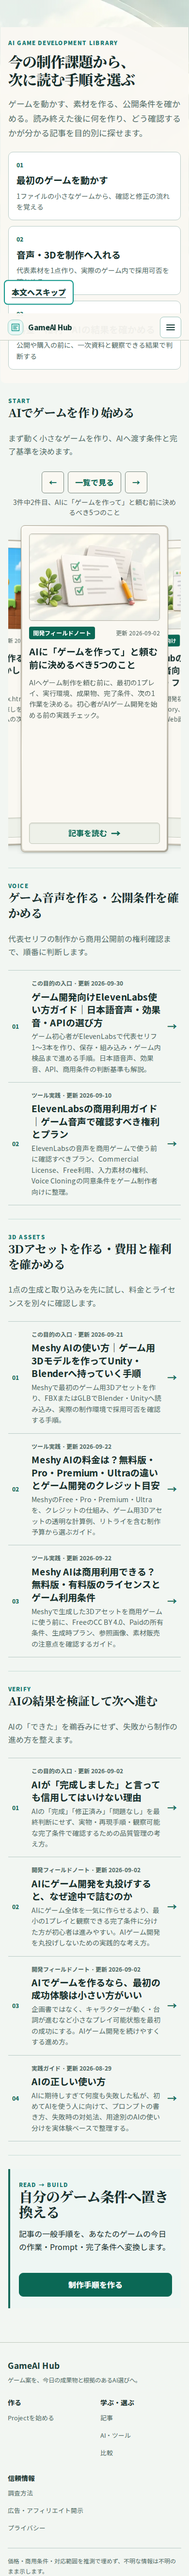
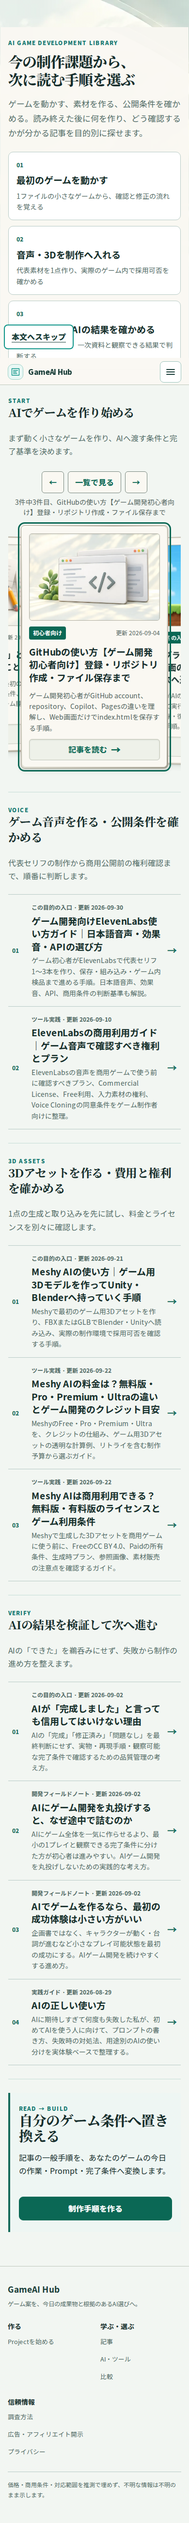
fix: stabilize creation deck interactions

diff --git a/components/CreationDeck.tsx b/components/CreationDeck.tsx
@@ -1,7 +1,7 @@
 "use client";
 
 import Link from "next/link";
-import { useEffect, useLayoutEffect, useRef, useState, type MouseEvent, type PointerEvent as ReactPointerEvent } from "react";
+import { useCallback, useEffect, useLayoutEffect, useRef, useState, type KeyboardEvent, type MouseEvent, type PointerEvent as ReactPointerEvent } from "react";
 
 export type CreationDeckItem = {
   href: string;
@@ -18,26 +18,48 @@ export function CreationDeck({ items }: { items: CreationDeckItem[] }) {
   const [available, setAvailable] = useState(false);
   const [deckHeight, setDeckHeight] = useState<number>();
   const stage = useRef<HTMLOListElement>(null);
-  const gesture = useRef<{ x: number; y: number; dragging: boolean } | null>(null);
+  const gesture = useRef<{ pointerId: number; x: number; y: number; dragging: boolean } | null>(null);
   const suppressClick = useRef(false);
+  const suppressTimer = useRef<ReturnType<typeof setTimeout>>(undefined);
+  const preferredMode = useRef<"list" | "deck">("list");
 
   useEffect(() => {
-    if (sessionStorage.getItem("gameai-creation-deck-mode") === "deck") queueMicrotask(() => setMode("deck"));
+    try {
+      preferredMode.current = sessionStorage.getItem("gameai-creation-deck-mode") === "deck" ? "deck" : "list";
+    } catch {
+      preferredMode.current = "list";
+    }
   }, []);
 
   useLayoutEffect(() => {
     const root = stage.current;
     if (!root) return;
     const measure = () => {
-      const height = Math.max(...Array.from(root.children, (child) => (child as HTMLElement).scrollHeight), 0) + 16;
-      if (height > 16) setDeckHeight(height);
+      // Deck items are top-positioned but never bottom-constrained, so this is
+      // their intrinsic, width-correct height rather than the stage min-height.
+      const height = Math.ceil(Math.max(...Array.from(root.children, (child) => child.getBoundingClientRect().height), 0)) + 16;
+      if (height > 16) setDeckHeight((current) => current === height ? current : height);
     };
     measure();
     const observer = typeof ResizeObserver === "undefined" ? null : new ResizeObserver(measure);
     Array.from(root.children).forEach((child) => observer?.observe(child));
-    if (document.fonts) void document.fonts.ready.then(measure);
-    return () => observer?.disconnect();
+    const fonts = document.fonts;
+    const onFontsSettled = () => measure();
+    fonts?.addEventListener("loadingdone", onFontsSettled);
+    fonts?.addEventListener("loadingerror", onFontsSettled);
+    if (fonts) void fonts.ready.then(measure);
+    window.addEventListener("resize", measure);
+    return () => {
+      observer?.disconnect();
+      fonts?.removeEventListener("loadingdone", onFontsSettled);
+      fonts?.removeEventListener("loadingerror", onFontsSettled);
+      window.removeEventListener("resize", measure);
+    };
   }, [items]);
+
+  const cancelGesture = useCallback(() => {
+    gesture.current = null;
+  }, []);
 
   useEffect(() => {
     if (typeof window.matchMedia !== "function") return;
@@ -47,30 +69,66 @@ export function CreationDeck({ items }: { items: CreationDeckItem[] }) {
     const update = () => {
       const next = items.length > 1 && !narrow.matches && !reduced.matches && !forced.matches;
       setAvailable(next);
+      cancelGesture();
       if (!next) {
         if (stage.current?.parentElement?.querySelector(":focus")?.closest(".creation-deck-controls")) {
           stage.current?.querySelectorAll<HTMLAnchorElement>("a")[active]?.focus({ preventScroll: true });
         }
         setMode("list");
+      } else if (preferredMode.current === "deck") {
+        setMode("deck");
       }
     };
     update();
     [narrow, reduced, forced].forEach((query) => query.addEventListener("change", update));
     return () => [narrow, reduced, forced].forEach((query) => query.removeEventListener("change", update));
-  }, [active, items.length]);
+  }, [active, cancelGesture, items.length]);
+
+  useEffect(() => {
+    const onVisibility = () => {
+      if (document.visibilityState !== "visible") cancelGesture();
+    };
+    window.addEventListener("resize", cancelGesture);
+    document.addEventListener("visibilitychange", onVisibility);
+    return () => {
+      window.removeEventListener("resize", cancelGesture);
+      document.removeEventListener("visibilitychange", onVisibility);
+      if (suppressTimer.current) clearTimeout(suppressTimer.current);
+    };
+  }, [cancelGesture]);
 
   const move = (delta: number) => setActive((index) => (index + delta + items.length) % items.length);
   const changeMode = (next: "list" | "deck") => {
     setMode(next);
-    sessionStorage.setItem("gameai-creation-deck-mode", next);
+    preferredMode.current = next;
+    try {
+      sessionStorage.setItem("gameai-creation-deck-mode", next);
+    } catch {
+      // The in-memory preference remains usable when storage is unavailable.
+    }
+  };
+  const revealForFocus = (index: number) => {
+    const root = stage.current;
+    if (mode !== "deck" || !root) return;
+    root.dataset.focusReveal = "true";
+    setActive(index);
+    requestAnimationFrame(() => requestAnimationFrame(() => delete root.dataset.focusReveal));
+  };
+  const onControlsKeyDown = (event: KeyboardEvent<HTMLDivElement>) => {
+    if (mode !== "deck" || (event.key !== "ArrowLeft" && event.key !== "ArrowRight")) return;
+    event.preventDefault();
+    move(event.key === "ArrowLeft" ? -1 : 1);
   };
   const onPointerDown = (event: ReactPointerEvent) => {
-    if (mode !== "deck" || !event.isPrimary) return;
-    gesture.current = { x: event.clientX, y: event.clientY, dragging: false };
+    if (mode !== "deck" || !event.isPrimary || gesture.current) {
+      cancelGesture();
+      return;
+    }
+    gesture.current = { pointerId: event.pointerId, x: event.clientX, y: event.clientY, dragging: false };
   };
   const onPointerMove = (event: ReactPointerEvent) => {
     const start = gesture.current;
-    if (!start || !event.isPrimary) return;
+    if (!start || start.pointerId !== event.pointerId || !event.isPrimary) return;
     const dx = event.clientX - start.x;
     const dy = event.clientY - start.y;
     if (!start.dragging && Math.abs(dx) >= 10 && Math.abs(dx) > Math.abs(dy) * 1.3) {
@@ -80,11 +138,14 @@ export function CreationDeck({ items }: { items: CreationDeckItem[] }) {
   };
   const onPointerEnd = (event: ReactPointerEvent) => {
     const start = gesture.current;
-    gesture.current = null;
-    if (!start?.dragging) return;
-    const threshold = Math.min(64, (stage.current?.clientWidth ?? 320) * 0.18);
+    cancelGesture();
+    if (!start?.dragging || start.pointerId !== event.pointerId) return;
+    const cardWidth = stage.current?.children[active]?.getBoundingClientRect().width ?? 320;
+    const threshold = Math.min(64, cardWidth * 0.18);
     const dx = event.clientX - start.x;
     suppressClick.current = true;
+    if (suppressTimer.current) clearTimeout(suppressTimer.current);
+    suppressTimer.current = setTimeout(() => { suppressClick.current = false; }, 0);
     if (Math.abs(dx) >= threshold) move(dx < 0 ? 1 : -1);
   };
   const onClickCapture = (event: MouseEvent) => {
@@ -95,7 +156,7 @@ export function CreationDeck({ items }: { items: CreationDeckItem[] }) {
   };
 
   return <div className="creation-deck" data-mode={mode}>
-    {available && <div className="creation-deck-controls">
+    {available && <div className="creation-deck-controls" onKeyDown={onControlsKeyDown}>
       {mode === "deck" && <button type="button" onClick={() => move(-1)} aria-label="前の記事">←</button>}
       <button type="button" aria-pressed={mode === "deck"} onClick={() => changeMode(mode === "list" ? "deck" : "list")}>
         {mode === "list" ? "円環で見る" : "一覧で見る"}
@@ -103,11 +164,11 @@ export function CreationDeck({ items }: { items: CreationDeckItem[] }) {
       {mode === "deck" && <button type="button" onClick={() => move(1)} aria-label="次の記事">→</button>}
       {mode === "deck" && <span className="creation-deck-count" aria-live="polite">{items.length}件中{active + 1}件目、{items[active]?.title}</span>}
     </div>}
-    <ol ref={stage} className="article-cluster-list" style={mode === "deck" && deckHeight ? { minHeight: deckHeight } : undefined} onClickCapture={onClickCapture} onPointerDown={onPointerDown} onPointerMove={onPointerMove} onPointerUp={onPointerEnd} onPointerCancel={() => { gesture.current = null; }}>
+    <ol ref={stage} className="article-cluster-list" style={mode === "deck" && deckHeight ? { minHeight: deckHeight } : undefined} onClickCapture={onClickCapture} onPointerDown={onPointerDown} onPointerMove={onPointerMove} onPointerUp={onPointerEnd} onPointerCancel={cancelGesture} onLostPointerCapture={cancelGesture}>
       {items.map((item, index) => {
         const distance = ((index - active + items.length + Math.floor(items.length / 2)) % items.length) - Math.floor(items.length / 2);
         return <li key={item.href} className="v2-start-card-item" data-distance={mode === "deck" ? Math.max(-2, Math.min(2, distance)) : undefined}>
-          <Link className="v2-start-card" href={item.href} onFocus={() => mode === "deck" && setActive(index)}>
+          <Link className="v2-start-card" href={item.href} onFocus={() => revealForFocus(index)}>
             <span className="v2-start-card-face">
               <span className="v2-start-card-image" aria-hidden="true">
                 {/* Approved source bytes are intentionally served without re-encoding. */}

diff --git a/e2e/issue-157-stage-b.spec.ts b/e2e/issue-157-stage-b.spec.ts
@@ -1,4 +1,4 @@
-import { expect, test } from "@playwright/test";
+import { expect, test } from "./fixtures";
 import { mkdir } from "node:fs/promises";
 import path from "node:path";
 
@@ -32,8 +32,52 @@ test("Creation Deck is explicit, preserves links, and retains a list fallback", 
   await expect(deck).toHaveAttribute("data-mode", "list");
   await page.getByRole("button", { name: "円環で見る" }).click();
   await expect(deck).toHaveAttribute("data-mode", "deck");
+  const stage = deck.locator("ol");
+  const followingSection = page.locator("#start").locator("xpath=following-sibling::section[1]");
+  const sampleGeometry = async () => page.evaluate(() => new Promise<{ stage: number; next: number }[]>((resolve) => {
+    const samples: { stage: number; next: number }[] = [];
+    const collect = () => {
+      const stageElement = document.querySelector("#start .creation-deck ol");
+      const next = document.querySelector("#start")?.nextElementSibling;
+      samples.push({ stage: stageElement?.getBoundingClientRect().height ?? 0, next: next?.getBoundingClientRect().top ?? 0 });
+      if (samples.length === 8) resolve(samples);
+      else setTimeout(collect, 100);
+    };
+    collect();
+  }));
+  const assertSettled = (samples: { stage: number; next: number }[]) => {
+    const tail = samples.slice(-4);
+    expect(Math.max(...tail.map(({ stage: height }) => height)) - Math.min(...tail.map(({ stage: height }) => height))).toBeLessThanOrEqual(1);
+    expect(Math.max(...tail.map(({ next }) => next)) - Math.min(...tail.map(({ next }) => next))).toBeLessThanOrEqual(1);
+  };
+  assertSettled(await sampleGeometry());
+  await expect(stage).toBeVisible();
+  await expect(followingSection).toBeVisible();
   await page.getByRole("button", { name: "次の記事" }).click();
   await expect(page.locator(".creation-deck-count")).toContainText("3件中2件目");
+  await page.getByRole("button", { name: "次の記事" }).press("ArrowLeft");
+  await expect(page.locator(".creation-deck-count")).toContainText("3件中1件目");
+  await links.nth(2).focus();
+  await expect(page.locator(".creation-deck-count")).toContainText("3件中3件目");
+  await expect(links.nth(2)).toBeFocused();
+  await page.setViewportSize({ width: 600, height: 844 });
+  assertSettled(await sampleGeometry());
+  await page.evaluate(() => { document.documentElement.style.fontSize = "150%"; });
+  assertSettled(await sampleGeometry());
+  await page.evaluate(() => {
+    document.documentElement.style.letterSpacing = ".12em";
+    document.documentElement.style.wordSpacing = ".16em";
+  });
+  assertSettled(await sampleGeometry());
+  await page.evaluate(async () => { await document.fonts.ready; });
+  assertSettled(await sampleGeometry());
+  await page.evaluate(() => {
+    document.documentElement.style.fontSize = "";
+    document.documentElement.style.letterSpacing = "";
+    document.documentElement.style.wordSpacing = "";
+  });
+  await page.setViewportSize({ width: 390, height: 844 });
+  assertSettled(await sampleGeometry());
   await page.screenshot({ path: path.join(evidence, "creation-deck-mode-390.png"), fullPage: true });
   await page.reload();
   await expect(deck).toHaveAttribute("data-mode", "deck");
@@ -47,11 +91,38 @@ test("Creation Deck is explicit, preserves links, and retains a list fallback", 
   await expect(links).toHaveCount(3);
 });
 
+test("Creation Deck remains usable when session storage is blocked", async ({ page }) => {
+  await page.addInitScript(() => {
+    Object.defineProperty(Storage.prototype, "getItem", { configurable: true, value: () => { throw new DOMException("blocked"); } });
+    Object.defineProperty(Storage.prototype, "setItem", { configurable: true, value: () => { throw new DOMException("blocked"); } });
+  });
+  await page.setViewportSize({ width: 390, height: 844 });
+  await page.goto("/articles/#start");
+  const toggle = page.getByRole("button", { name: "円環で見る" });
+  await expect(toggle).toBeVisible();
+  await toggle.click();
+  await expect(page.locator("#start .creation-deck")).toHaveAttribute("data-mode", "deck");
+  await page.getByRole("button", { name: "次の記事" }).click();
+  await expect(page.locator(".creation-deck-count")).toContainText("3件中2件目");
+});
+
 test("reading and trust planes remain readable and preserve ElevenLabs v4", async ({ page }) => {
+  await mkdir(evidence, { recursive: true });
   await page.setViewportSize({ width: 375, height: 844 });
   for (const route of ["/articles/elevenlabs-v4-game-voice/", "/privacy/", "/methodology/", "/affiliate-disclosure/"]) {
     await page.goto(route);
     await expect(page.locator("h1")).toBeVisible();
     expect(await page.evaluate(() => document.documentElement.scrollWidth <= document.documentElement.clientWidth)).toBe(true);
+    if (route.startsWith("/articles/")) {
+      const homeCrumb = page.locator(".breadcrumbs a").first();
+      const box = await homeCrumb.boundingBox();
+      expect(box?.width ?? 0).toBeGreaterThan(30);
+      expect(await homeCrumb.evaluate((element) => {
+        const range = document.createRange();
+        range.selectNodeContents(element);
+        return new Set(Array.from(range.getClientRects(), (rect) => Math.round(rect.top))).size;
+      })).toBe(1);
+      await page.screenshot({ path: path.join(evidence, "article-breadcrumb-375.png"), fullPage: true });
+    }
   }
 });

diff --git a/app/visual-layer-v2.css b/app/visual-layer-v2.css
@@ -329,12 +329,15 @@ body.visual-layer-v2 :is(pre,code,.compare-scroll) { overflow-wrap:normal; }
 .creation-deck-count { flex:1 1 100%; text-align:center; color:var(--v2-muted); font-size:.875rem; line-height:1.5; }
 .creation-deck[data-mode="deck"] { overflow:clip; padding:4px; }
 .articles-v2-route #start .creation-deck[data-mode="deck"] .article-cluster-list { position:relative; display:block; }
-.creation-deck[data-mode="deck"] .v2-start-card-item { position:absolute; inset:0; width:min(352px,78vw); margin-inline:auto; transition:transform 220ms ease-out,opacity 120ms linear; }
+.creation-deck[data-mode="deck"] .v2-start-card-item { position:absolute; inset-inline:0; top:0; width:min(352px,78vw); margin-inline:auto; transition:transform 220ms ease-out,opacity 120ms linear; }
+.creation-deck[data-mode="deck"] .article-cluster-list[data-focus-reveal="true"] .v2-start-card-item { transition:none; }
 .creation-deck[data-mode="deck"] .v2-start-card-item[data-distance="0"] { z-index:3; transform:translateX(0); }
 .creation-deck[data-mode="deck"] .v2-start-card-item[data-distance="-1"] { z-index:2; transform:translateX(-72%) translateY(8px) perspective(1200px) rotateY(10deg) scale(.92); }
 .creation-deck[data-mode="deck"] .v2-start-card-item[data-distance="1"] { z-index:2; transform:translateX(72%) translateY(8px) perspective(1200px) rotateY(-10deg) scale(.92); }
 .creation-deck[data-mode="deck"] .v2-start-card-item[data-distance="-2"],.creation-deck[data-mode="deck"] .v2-start-card-item[data-distance="2"] { z-index:1; opacity:0; pointer-events:none; transform:scale(.88); }
 .creation-deck[data-mode="deck"] .article-cluster-list { touch-action:pan-y pinch-zoom; }
+.article-shell > .breadcrumbs > :is(a, span:not(:last-child)) { flex:0 0 auto; white-space:nowrap; }
+.article-shell > .breadcrumbs > span:last-child { min-width:0; overflow-wrap:anywhere; }
 
 @media (max-width:900px) {
   body.visual-layer-v2 { background-image:linear-gradient(to bottom,rgb(242 246 242 / 12%) 28rem,var(--v2-canvas) 44rem),url("/visual-v2/backgrounds/mint-atrium-768.webp"); background-size:768px auto; }
